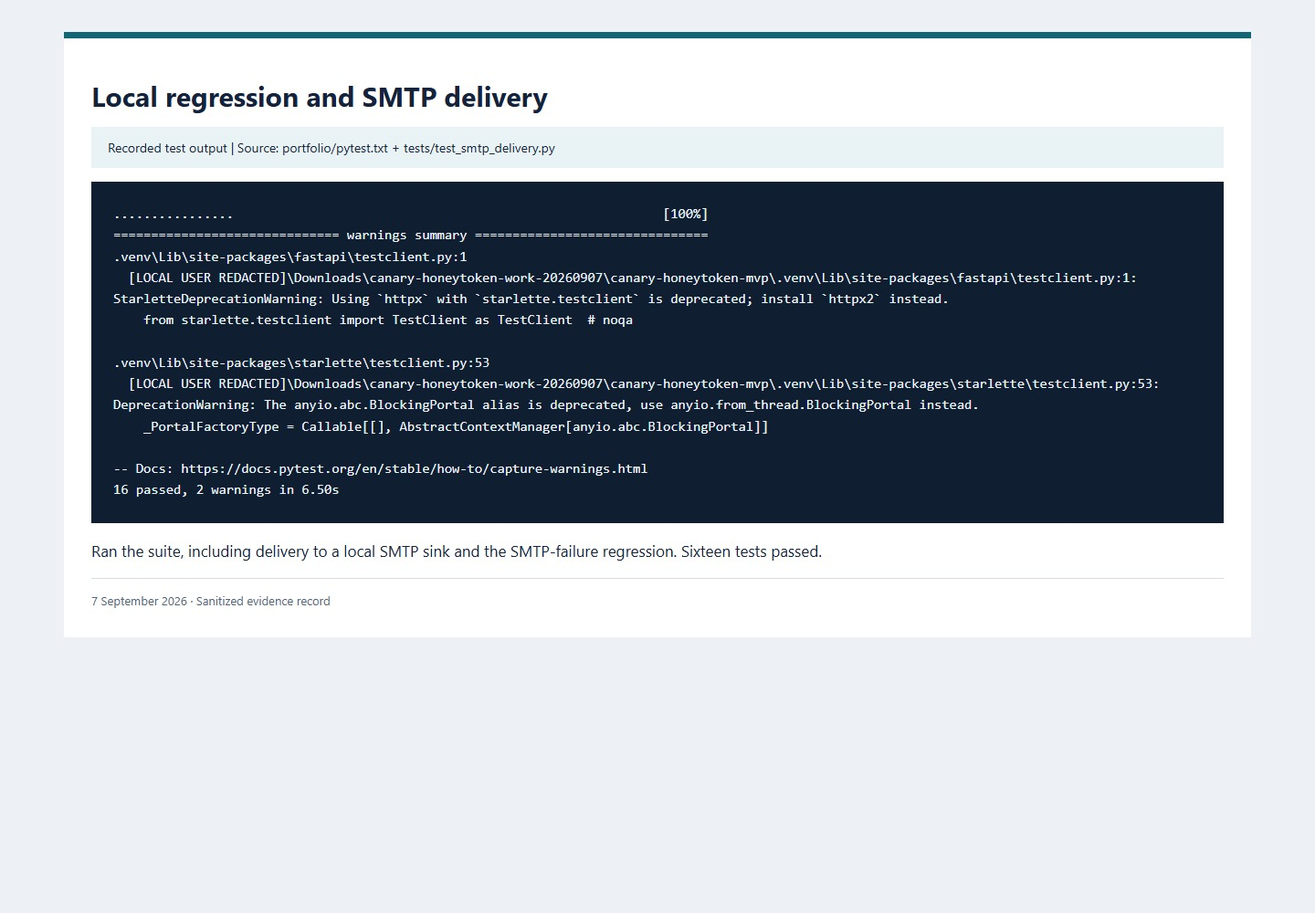
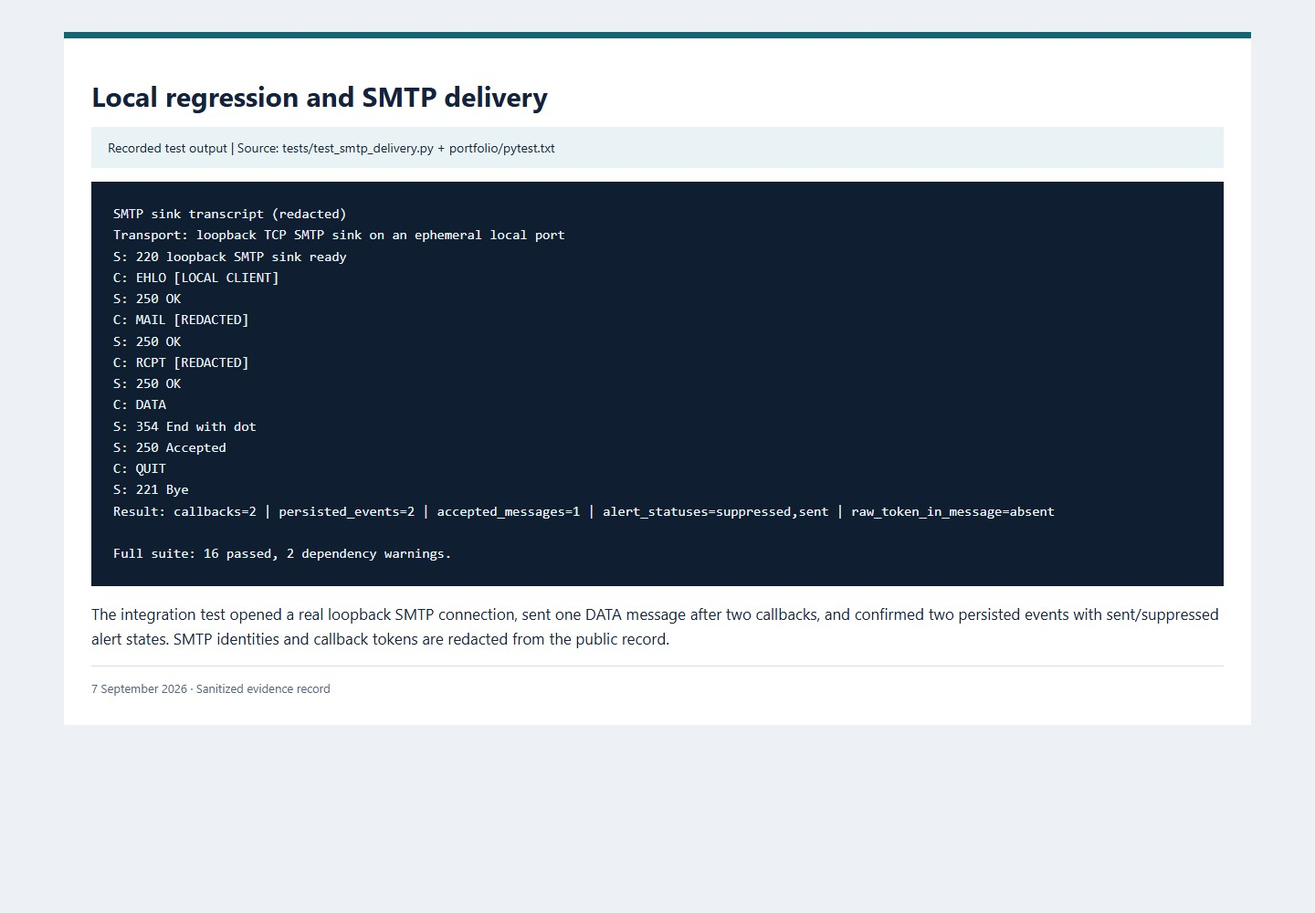
Expose redacted SMTP delivery transcript

diff --git a/docs/evidence/public/index.html b/docs/evidence/public/index.html
@@ -1,1 +1,1 @@
-<!doctype html><html lang="en"><meta charset="utf-8"><meta name="viewport" content="width=device-width,initial-scale=1"><title>Honey Token — screenshot walkthrough</title><style>body{margin:0;background:#edf1f5;color:#14233b;font:17px/1.55 Segoe UI,Arial}main{max-width:1240px;margin:35px auto;padding:30px;background:white;border-top:7px solid #126675}h1{font-size:30px;margin:10px 0}.meta{padding:12px 18px;background:#e9f2f4;font-size:14px}pre{white-space:pre-wrap;overflow-wrap:anywhere;font:15px/1.55 Consolas,monospace;background:#101e32;color:#ebf3fa;padding:24px}footer{font-size:13px;color:#53677c;border-top:1px solid #d4dee6;padding-top:14px}a{color:#126675}img{max-width:100%;height:auto}article{margin:36px 0;padding-top:20px;border-top:1px solid #ccd5dc}</style><main><h1>Honey Token</h1><p>Project walkthrough recorded on 7 September 2026, covering setup, deployment, document retrieval, event triage, Sentinel ingestion, and tests. Word and GitHub images are application captures. Azure images display saved API and query records, rather than the Azure portal. No teardown was performed.</p><p>Account details, email addresses, source IPs, tenant/subscription identifiers, callback tokens, and resource endpoints are redacted or excluded. Raw records remain outside this package.</p><h2>Project walkthrough</h2><ol><li><a href="#step01">Purpose and architecture</a></li><li><a href="#step02">Starting state and baseline</a></li><li><a href="#step03">Infrastructure deployment</a></li><li><a href="#step04">Receiver security configuration</a></li><li><a href="#step05">Deployed receiver health</a></li><li><a href="#step06">Word renders the synthetic decoy</a></li><li><a href="#step07">Word callback and triage</a></li><li><a href="#step08">Persisted events and delivery outcomes</a></li><li><a href="#step09">Log Analytics ingestion</a></li><li><a href="#step10">Sentinel analytic rule</a></li><li><a href="#step11">Sentinel incident</a></li><li><a href="#step12">GitHub main CI status</a></li><li><a href="#step13">GitHub test job</a></li><li><a href="#step14">GitHub pytest log</a></li><li><a href="#step15">Local regression and SMTP delivery</a></li><li><a href="#step16">Secret scanning</a></li><li><a href="#step17">Limitations and teardown status</a></li></ol><article id="step01"><h2>01. Purpose and architecture</h2><div class="meta">Design summary | Source: ARCHITECTURE.md</div><p>Extended the local document-token receiver with Azure Table Storage and Sentinel ingestion. Word and cloud callbacks were exercised separately.</p><a href="01-evidence.jpg"><img loading="lazy" src="01-evidence.jpg" alt="Purpose and architecture"></a></article><article id="step02"><h2>02. Starting state and baseline</h2><div class="meta">Archived record, captured 2026-09-07 | Source: 00-azure-start-state.json + docs/BASELINE.md</div><p>Recorded the local SQLite starting point and nine passing baseline tests before adding the Azure adapters.</p><a href="02-evidence.jpg"><img loading="lazy" src="02-evidence.jpg" alt="Starting state and baseline"></a></article><article id="step03"><h2>03. Infrastructure deployment</h2><div class="meta">Archived Azure deployment response | Source: 03-bicep-final-deployment.json</div><p>Deployed the Bicep resources successfully. Resource identifiers and endpoint values are omitted from the saved response.</p><a href="03-evidence.jpg"><img loading="lazy" src="03-evidence.jpg" alt="Infrastructure deployment"></a></article><article id="step04"><h2>04. Receiver security configuration</h2><div class="meta">Source configuration evidence | Source: infra/main.bicep</div><p>Disabled registry admin access and storage shared keys, required HTTPS, and disabled public management routes in the deployment configuration.</p><a href="04-evidence.jpg"><img loading="lazy" src="04-evidence.jpg" alt="Receiver security configuration"></a></article><article id="step05"><h2>05. Deployed receiver health</h2><div class="meta">Archived HTTP result | Source: 09-container-app-health.json</div><p>Requested the deployed health endpoint; it returned HTTP 200 with receiver-only mode and Azure Table Storage.</p><a href="05-evidence.jpg"><img loading="lazy" src="05-evidence.jpg" alt="Deployed receiver health"></a></article><article id="step06"><h2>06. Word renders the synthetic decoy</h2><div class="meta">Microsoft Word UI capture | Source: Word 16.0.20326.20132</div><p>Opened the generated synthetic document in Word. The local callback it produced is recorded in image 07.</p><a href="06-word-decoy.png"><img loading="lazy" src="06-word-decoy.png" alt="Word renders the synthetic decoy"></a></article><article id="step07"><h2>07. Word callback and triage</h2><div class="meta">Archived event from observed Word open | Source: word-viewer-result.json</div><p>Captured the Office User-Agent and high-severity event when Word requested the loopback pixel.</p><a href="07-evidence.jpg"><img loading="lazy" src="07-evidence.jpg" alt="Word callback and triage"></a></article><article id="step08"><h2>08. Persisted events and delivery outcomes</h2><div class="meta">Archived Azure Table query | Source: table-events-sanitized.json</div><p>Queried stored events and retained both successful delivery outcomes and the first failed ingestion attempt.</p><a href="08-evidence.jpg"><img loading="lazy" src="08-evidence.jpg" alt="Persisted events and delivery outcomes"></a></article><article id="step09"><h2>09. Log Analytics ingestion</h2><div class="meta">Archived CanaryHit_CL query | Source: log-analytics-latest.json</div><p>Queried four ingested records, including a scanner classification and a suppressed repeat notification.</p><a href="09-evidence.jpg"><img loading="lazy" src="09-evidence.jpg" alt="Log Analytics ingestion"></a></article><article id="step10"><h2>10. Sentinel analytic rule</h2><div class="meta">Archived rule configuration | Source: sentinel-rule.json</div><p>Deployed a five-minute Sentinel rule with a ten-minute lookback and incident creation enabled. The query selected all callback rows; scanner and repeat rows were included.</p><a href="10-evidence.jpg"><img loading="lazy" src="10-evidence.jpg" alt="Sentinel analytic rule"></a></article><article id="step11"><h2>11. Sentinel incident</h2><div class="meta">Archived Sentinel incident response | Source: sentinel-incidents.json</div><p>Recorded the resulting high-severity Sentinel incident. Account and resource identifiers are omitted.</p><a href="11-evidence.jpg"><img loading="lazy" src="11-evidence.jpg" alt="Sentinel incident"></a></article><article id="step12"><h2>12. GitHub main CI status</h2><div class="meta">GitHub UI capture | Source: Actions run 34152044446, commit 2858824</div><p>Captured the completed main-branch CI run after the application fixes.</p><a href="12-github-ci-status.jpg"><img loading="lazy" src="12-github-ci-status.jpg" alt="GitHub main CI status"></a></article><article id="step13"><h2>13. GitHub test job</h2><div class="meta">GitHub UI capture | Source: Actions run 34152044446</div><p>Captured the successful test job in the same GitHub Actions run.</p><a href="13-github-test-job.jpg"><img loading="lazy" src="13-github-test-job.jpg" alt="GitHub test job"></a></article><article id="step14"><h2>14. GitHub pytest log</h2><div class="meta">GitHub UI capture | Source: Job 101836165394 in Actions run 34152044446</div><p>Captured the pytest output from the completed GitHub test job.</p><a href="14-github-pytest-output.jpg"><img loading="lazy" src="14-github-pytest-output.jpg" alt="GitHub pytest log"></a></article><article id="step15"><h2>15. Local regression and SMTP delivery</h2><div class="meta">Recorded test output | Source: portfolio/pytest.txt + tests/test_smtp_delivery.py</div><p>Ran the suite, including delivery to a local SMTP sink and the SMTP-failure regression. Sixteen tests passed.</p><a href="15-evidence.jpg"><img loading="lazy" src="15-evidence.jpg" alt="Local regression and SMTP delivery"></a></article><article id="step16"><h2>16. Secret scanning</h2><div class="meta">Gitleaks output | Source: portfolio/gitleaks.txt</div><p>Scanned the tracked history with Gitleaks; the recorded scan found no secrets.</p><a href="16-evidence.jpg"><img loading="lazy" src="16-evidence.jpg" alt="Secret scanning"></a></article><article id="step17"><h2>17. Limitations and teardown status</h2><div class="meta">Operational notes | Source: LIMITATIONS.md + COST_AND_TEARDOWN.md</div><p>Recorded the resource state at the end of the run. The cleanup command and operational constraints are documented separately.</p><a href="17-evidence.jpg"><img loading="lazy" src="17-evidence.jpg" alt="Limitations and teardown status"></a></article></main></html>
+<!doctype html><html lang="en"><meta charset="utf-8"><meta name="viewport" content="width=device-width,initial-scale=1"><title>Honey Token — screenshot walkthrough</title><style>body{margin:0;background:#edf1f5;color:#14233b;font:17px/1.55 Segoe UI,Arial}main{max-width:1240px;margin:35px auto;padding:30px;background:white;border-top:7px solid #126675}h1{font-size:30px;margin:10px 0}.meta{padding:12px 18px;background:#e9f2f4;font-size:14px}pre{white-space:pre-wrap;overflow-wrap:anywhere;font:15px/1.55 Consolas,monospace;background:#101e32;color:#ebf3fa;padding:24px}footer{font-size:13px;color:#53677c;border-top:1px solid #d4dee6;padding-top:14px}a{color:#126675}img{max-width:100%;height:auto}article{margin:36px 0;padding-top:20px;border-top:1px solid #ccd5dc}</style><main><h1>Honey Token</h1><p>Project walkthrough recorded on 7 September 2026, covering setup, deployment, document retrieval, event triage, Sentinel ingestion, and tests. Word and GitHub images are application captures. Azure images display saved API and query records, rather than the Azure portal. No teardown was performed.</p><p>Account details, email addresses, source IPs, tenant/subscription identifiers, callback tokens, and resource endpoints are redacted or excluded. Raw records remain outside this package.</p><h2>Project walkthrough</h2><ol><li><a href="#step01">Purpose and architecture</a></li><li><a href="#step02">Starting state and baseline</a></li><li><a href="#step03">Infrastructure deployment</a></li><li><a href="#step04">Receiver security configuration</a></li><li><a href="#step05">Deployed receiver health</a></li><li><a href="#step06">Word renders the synthetic decoy</a></li><li><a href="#step07">Word callback and triage</a></li><li><a href="#step08">Persisted events and delivery outcomes</a></li><li><a href="#step09">Log Analytics ingestion</a></li><li><a href="#step10">Sentinel analytic rule</a></li><li><a href="#step11">Sentinel incident</a></li><li><a href="#step12">GitHub main CI status</a></li><li><a href="#step13">GitHub test job</a></li><li><a href="#step14">GitHub pytest log</a></li><li><a href="#step15">Local regression and SMTP delivery</a></li><li><a href="#step16">Secret scanning</a></li><li><a href="#step17">Limitations and teardown status</a></li></ol><article id="step01"><h2>01. Purpose and architecture</h2><div class="meta">Design summary | Source: ARCHITECTURE.md</div><p>Extended the local document-token receiver with Azure Table Storage and Sentinel ingestion. Word and cloud callbacks were exercised separately.</p><a href="01-evidence.jpg"><img loading="lazy" src="01-evidence.jpg" alt="Purpose and architecture"></a></article><article id="step02"><h2>02. Starting state and baseline</h2><div class="meta">Archived record, captured 2026-09-07 | Source: 00-azure-start-state.json + docs/BASELINE.md</div><p>Recorded the local SQLite starting point and nine passing baseline tests before adding the Azure adapters.</p><a href="02-evidence.jpg"><img loading="lazy" src="02-evidence.jpg" alt="Starting state and baseline"></a></article><article id="step03"><h2>03. Infrastructure deployment</h2><div class="meta">Archived Azure deployment response | Source: 03-bicep-final-deployment.json</div><p>Deployed the Bicep resources successfully. Resource identifiers and endpoint values are omitted from the saved response.</p><a href="03-evidence.jpg"><img loading="lazy" src="03-evidence.jpg" alt="Infrastructure deployment"></a></article><article id="step04"><h2>04. Receiver security configuration</h2><div class="meta">Source configuration evidence | Source: infra/main.bicep</div><p>Disabled registry admin access and storage shared keys, required HTTPS, and disabled public management routes in the deployment configuration.</p><a href="04-evidence.jpg"><img loading="lazy" src="04-evidence.jpg" alt="Receiver security configuration"></a></article><article id="step05"><h2>05. Deployed receiver health</h2><div class="meta">Archived HTTP result | Source: 09-container-app-health.json</div><p>Requested the deployed health endpoint; it returned HTTP 200 with receiver-only mode and Azure Table Storage.</p><a href="05-evidence.jpg"><img loading="lazy" src="05-evidence.jpg" alt="Deployed receiver health"></a></article><article id="step06"><h2>06. Word renders the synthetic decoy</h2><div class="meta">Microsoft Word UI capture | Source: Word 16.0.20326.20132</div><p>Opened the generated synthetic document in Word. The local callback it produced is recorded in image 07.</p><a href="06-word-decoy.png"><img loading="lazy" src="06-word-decoy.png" alt="Word renders the synthetic decoy"></a></article><article id="step07"><h2>07. Word callback and triage</h2><div class="meta">Archived event from observed Word open | Source: word-viewer-result.json</div><p>Captured the Office User-Agent and high-severity event when Word requested the loopback pixel.</p><a href="07-evidence.jpg"><img loading="lazy" src="07-evidence.jpg" alt="Word callback and triage"></a></article><article id="step08"><h2>08. Persisted events and delivery outcomes</h2><div class="meta">Archived Azure Table query | Source: table-events-sanitized.json</div><p>Queried stored events and retained both successful delivery outcomes and the first failed ingestion attempt.</p><a href="08-evidence.jpg"><img loading="lazy" src="08-evidence.jpg" alt="Persisted events and delivery outcomes"></a></article><article id="step09"><h2>09. Log Analytics ingestion</h2><div class="meta">Archived CanaryHit_CL query | Source: log-analytics-latest.json</div><p>Queried four ingested records, including a scanner classification and a suppressed repeat notification.</p><a href="09-evidence.jpg"><img loading="lazy" src="09-evidence.jpg" alt="Log Analytics ingestion"></a></article><article id="step10"><h2>10. Sentinel analytic rule</h2><div class="meta">Archived rule configuration | Source: sentinel-rule.json</div><p>Deployed a five-minute Sentinel rule with a ten-minute lookback and incident creation enabled. The query selected all callback rows; scanner and repeat rows were included.</p><a href="10-evidence.jpg"><img loading="lazy" src="10-evidence.jpg" alt="Sentinel analytic rule"></a></article><article id="step11"><h2>11. Sentinel incident</h2><div class="meta">Archived Sentinel incident response | Source: sentinel-incidents.json</div><p>Recorded the resulting high-severity Sentinel incident. Account and resource identifiers are omitted.</p><a href="11-evidence.jpg"><img loading="lazy" src="11-evidence.jpg" alt="Sentinel incident"></a></article><article id="step12"><h2>12. GitHub main CI status</h2><div class="meta">GitHub UI capture | Source: Actions run 34152044446, commit 2858824</div><p>Captured the completed main-branch CI run after the application fixes.</p><a href="12-github-ci-status.jpg"><img loading="lazy" src="12-github-ci-status.jpg" alt="GitHub main CI status"></a></article><article id="step13"><h2>13. GitHub test job</h2><div class="meta">GitHub UI capture | Source: Actions run 34152044446</div><p>Captured the successful test job in the same GitHub Actions run.</p><a href="13-github-test-job.jpg"><img loading="lazy" src="13-github-test-job.jpg" alt="GitHub test job"></a></article><article id="step14"><h2>14. GitHub pytest log</h2><div class="meta">GitHub UI capture | Source: Job 101836165394 in Actions run 34152044446</div><p>Captured the pytest output from the completed GitHub test job.</p><a href="14-github-pytest-output.jpg"><img loading="lazy" src="14-github-pytest-output.jpg" alt="GitHub pytest log"></a></article><article id="step15"><h2>15. Local regression and SMTP delivery</h2><div class="meta">Recorded test output | Source: tests/test_smtp_delivery.py + portfolio/pytest.txt</div><p>The integration test opened a real loopback SMTP connection, sent one DATA message after two callbacks, and confirmed two persisted events with sent/suppressed alert states. SMTP identities and callback tokens are redacted from the public record.</p><a href="15-evidence.jpg"><img loading="lazy" src="15-evidence.jpg" alt="Local regression and SMTP delivery"></a></article><article id="step16"><h2>16. Secret scanning</h2><div class="meta">Gitleaks output | Source: portfolio/gitleaks.txt</div><p>Scanned the tracked history with Gitleaks; the recorded scan found no secrets.</p><a href="16-evidence.jpg"><img loading="lazy" src="16-evidence.jpg" alt="Secret scanning"></a></article><article id="step17"><h2>17. Limitations and teardown status</h2><div class="meta">Operational notes | Source: LIMITATIONS.md + COST_AND_TEARDOWN.md</div><p>Recorded the resource state at the end of the run. The cleanup command and operational constraints are documented separately.</p><a href="17-evidence.jpg"><img loading="lazy" src="17-evidence.jpg" alt="Limitations and teardown status"></a></article></main></html>

diff --git a/docs/evidence/public/15-evidence.html b/docs/evidence/public/15-evidence.html
@@ -1,13 +1,17 @@
-<!doctype html><html lang="en"><meta charset="utf-8"><title>Local regression and SMTP delivery</title><style>body{margin:0;background:#edf1f5;color:#14233b;font:17px/1.55 Segoe UI,Arial}main{max-width:1240px;margin:35px auto;padding:30px;background:white;border-top:7px solid #126675}h1{font-size:30px;margin:10px 0}.meta{padding:12px 18px;background:#e9f2f4;font-size:14px}pre{white-space:pre-wrap;overflow-wrap:anywhere;font:15px/1.55 Consolas,monospace;background:#101e32;color:#ebf3fa;padding:24px}footer{font-size:13px;color:#53677c;border-top:1px solid #d4dee6;padding-top:14px}a{color:#126675}img{max-width:100%;height:auto}article{margin:36px 0;padding-top:20px;border-top:1px solid #ccd5dc}</style><main><h1>Local regression and SMTP delivery</h1><div class="meta">Recorded test output | Source: portfolio/pytest.txt + tests/test_smtp_delivery.py</div><pre>................                                                         [100%]
-============================== warnings summary ===============================
-.venv\Lib\site-packages\fastapi\testclient.py:1
-  [LOCAL USER REDACTED]\Downloads\canary-honeytoken-work-20260907\canary-honeytoken-mvp\.venv\Lib\site-packages\fastapi\testclient.py:1: StarletteDeprecationWarning: Using `httpx` with `starlette.testclient` is deprecated; install `httpx2` instead.
-    from starlette.testclient import TestClient as TestClient  # noqa
+<!doctype html><html lang="en"><meta charset="utf-8"><title>Local regression and SMTP delivery</title><style>body{margin:0;background:#edf1f5;color:#14233b;font:17px/1.55 Segoe UI,Arial}main{max-width:1240px;margin:35px auto;padding:30px;background:white;border-top:7px solid #126675}h1{font-size:30px;margin:10px 0}.meta{padding:12px 18px;background:#e9f2f4;font-size:14px}pre{white-space:pre-wrap;overflow-wrap:anywhere;font:15px/1.55 Consolas,monospace;background:#101e32;color:#ebf3fa;padding:24px}footer{font-size:13px;color:#53677c;border-top:1px solid #d4dee6;padding-top:14px}a{color:#126675}img{max-width:100%;height:auto}article{margin:36px 0;padding-top:20px;border-top:1px solid #ccd5dc}</style><main><h1>Local regression and SMTP delivery</h1><div class="meta">Recorded test output | Source: tests/test_smtp_delivery.py + portfolio/pytest.txt</div><pre>SMTP sink transcript (redacted)
+Transport: loopback TCP SMTP sink on an ephemeral local port
+S: 220 loopback SMTP sink ready
+C: EHLO [LOCAL CLIENT]
+S: 250 OK
+C: MAIL [REDACTED]
+S: 250 OK
+C: RCPT [REDACTED]
+S: 250 OK
+C: DATA
+S: 354 End with dot
+S: 250 Accepted
+C: QUIT
+S: 221 Bye
+Result: callbacks=2 | persisted_events=2 | accepted_messages=1 | alert_statuses=suppressed,sent | raw_token_in_message=absent
 
-.venv\Lib\site-packages\starlette\testclient.py:53
-  [LOCAL USER REDACTED]\Downloads\canary-honeytoken-work-20260907\canary-honeytoken-mvp\.venv\Lib\site-packages\starlette\testclient.py:53: DeprecationWarning: The anyio.abc.BlockingPortal alias is deprecated, use anyio.from_thread.BlockingPortal instead.
-    _PortalFactoryType = Callable[[], AbstractContextManager[anyio.abc.BlockingPortal]]
-
--- Docs: https://docs.pytest.org/en/stable/how-to/capture-warnings.html
-16 passed, 2 warnings in 6.50s
-</pre><p>Ran the suite, including delivery to a local SMTP sink and the SMTP-failure regression. Sixteen tests passed.</p><footer>7 September 2026 · Sanitized evidence record</footer></main></html>
+Full suite: 16 passed, 2 dependency warnings.</pre><p>The integration test opened a real loopback SMTP connection, sent one DATA message after two callbacks, and confirmed two persisted events with sent/suppressed alert states. SMTP identities and callback tokens are redacted from the public record.</p><footer>7 September 2026 · Sanitized evidence record</footer></main></html>

diff --git a/tests/test_smtp_delivery.py b/tests/test_smtp_delivery.py
@@ -11,25 +11,40 @@ from app.main import create_app
 
 def test_callback_delivers_triaged_message_to_loopback_sink(tmp_path):
     messages = []
+    smtp_trace = []
 
     class SMTPHandler(socketserver.StreamRequestHandler):
         def handle(self):
             self.connection.settimeout(5)
             self.wfile.write(b"220 local.test ESMTP\r\n")
+            smtp_trace.append("S: 220 loopback SMTP sink ready")
             while line := self.rfile.readline():
+                raw_line = line.rstrip(b"\r\n").decode("ascii", errors="replace")
                 command = line.split(b" ", 1)[0].strip().upper()
+                if command in {b"MAIL", b"RCPT"}:
+                    smtp_trace.append(f"C: {command.decode()} [REDACTED]")
+                elif command in {b"EHLO", b"HELO"}:
+                    smtp_trace.append(f"C: {command.decode()} [LOCAL CLIENT]")
+                elif command == b"DATA":
+                    smtp_trace.append("C: DATA")
+                else:
+                    smtp_trace.append(f"C: {raw_line}")
                 if command == b"DATA":
                     self.wfile.write(b"354 End with dot\r\n")
+                    smtp_trace.append("S: 354 End with dot")
                     lines = []
                     while (line := self.rfile.readline()) not in (b".\r\n", b""):
                         lines.append(line)
                     messages.append(b"".join(lines))
                     self.wfile.write(b"250 Accepted\r\n")
+                    smtp_trace.append("S: 250 Accepted")
                 elif command == b"QUIT":
                     self.wfile.write(b"221 Bye\r\n")
+                    smtp_trace.append("S: 221 Bye")
                     return
                 else:
                     self.wfile.write(b"250 OK\r\n")
+                    smtp_trace.append("S: 250 OK")
 
     with socketserver.TCPServer(("127.0.0.1", 0), SMTPHandler) as server:
         thread = threading.Thread(target=server.serve_forever, daemon=True)
@@ -56,6 +71,12 @@ def test_callback_delivers_triaged_message_to_loopback_sink(tmp_path):
             assert "Synthetic.docx" in body
             assert token["canary_id"] in body
             assert token["id"] not in body
+            print("\nSMTP sink transcript (redacted)")
+            print("\n".join(smtp_trace))
+            print(
+                "Result: callbacks=2 | persisted_events=2 | accepted_messages=1 "
+                "| alert_statuses=suppressed,sent | raw_token_in_message=absent"
+            )
         finally:
             server.shutdown()
             thread.join(timeout=5)

diff --git a/docs/evidence/public/README.md b/docs/evidence/public/README.md
@@ -1,8 +1,8 @@
 # Honey Token — screenshot walkthrough
 
-Recorded evidence from the 7 September 2026 run: baseline, deployment, document retrieval, event triage, Sentinel ingestion, and tests. Word and GitHub images are application captures. Azure images show saved API and query records rather than Azure portal screenshots. Teardown was not run.
+Project walkthrough recorded on 7 September 2026, covering setup, deployment, document retrieval, event triage, Sentinel ingestion, and tests. Word and GitHub images are application captures. Azure images display saved API and query records, rather than the Azure portal. No teardown was performed.
 
-Account details, email addresses, source IPs, tenant and subscription identifiers, callback tokens, and resource endpoints are redacted or omitted. Raw records remain outside this package.
+Account details, email addresses, source IPs, tenant/subscription identifiers, callback tokens, and resource endpoints are redacted or excluded. Raw records remain outside this package.
 
 [Open the offline gallery](index.html). Image hashes are recorded in [captions.json](captions.json).
 
@@ -14,7 +14,7 @@ Account details, email addresses, source IPs, tenant and subscription identifier
 
 **Design summary** — Source: `ARCHITECTURE.md`.
 
-The diagram separates the local Word callback from the controlled Azure-to-Sentinel path.
+Extended the local document-token receiver with Azure Table Storage and Sentinel ingestion. Word and cloud callbacks were exercised separately.
 
 ![Purpose and architecture](01-evidence.jpg)
 
@@ -22,7 +22,7 @@ The diagram separates the local Word callback from the controlled Azure-to-Senti
 
 **Archived record, captured 2026-09-07** — Source: `00-azure-start-state.json + docs/BASELINE.md`.
 
-The local SQLite service started with nine passing tests before the Azure adapters were added.
+Recorded the local SQLite starting point and nine passing baseline tests before adding the Azure adapters.
 
 ![Starting state and baseline](02-evidence.jpg)
 
@@ -30,7 +30,7 @@ The local SQLite service started with nine passing tests before the Azure adapte
 
 **Archived Azure deployment response** — Source: `03-bicep-final-deployment.json`.
 
-Bicep deployed the receiver infrastructure. Resource identifiers and endpoint values are omitted.
+Deployed the Bicep resources successfully. Resource identifiers and endpoint values are omitted from the saved response.
 
 ![Infrastructure deployment](03-evidence.jpg)
 
@@ -38,7 +38,7 @@ Bicep deployed the receiver infrastructure. Resource identifiers and endpoint va
 
 **Source configuration evidence** — Source: `infra/main.bicep`.
 
-The deployment disabled registry admin access and storage shared keys, required HTTPS, and disabled public management routes.
+Disabled registry admin access and storage shared keys, required HTTPS, and disabled public management routes in the deployment configuration.
 
 ![Receiver security configuration](04-evidence.jpg)
 
@@ -46,7 +46,7 @@ The deployment disabled registry admin access and storage shared keys, required 
 
 **Archived HTTP result** — Source: `09-container-app-health.json`.
 
-The deployed health endpoint returned HTTP 200 with receiver-only mode and Azure Table Storage.
+Requested the deployed health endpoint; it returned HTTP 200 with receiver-only mode and Azure Table Storage.
 
 ![Deployed receiver health](05-evidence.jpg)
 
@@ -54,7 +54,7 @@ The deployed health endpoint returned HTTP 200 with receiver-only mode and Azure
 
 **Microsoft Word UI capture** — Source: `Word 16.0.20326.20132`.
 
-Word opened the generated synthetic document. Its local callback appears in image 07.
+Opened the generated synthetic document in Word. The local callback it produced is recorded in image 07.
 
 ![Word renders the synthetic decoy](06-word-decoy.png)
 
@@ -62,7 +62,7 @@ Word opened the generated synthetic document. Its local callback appears in imag
 
 **Archived event from observed Word open** — Source: `word-viewer-result.json`.
 
-The event recorded the Office User-Agent, source metadata, high severity, and a sent console alert when Word requested the loopback pixel.
+Captured the Office User-Agent and high-severity event when Word requested the loopback pixel.
 
 ![Word callback and triage](07-evidence.jpg)
 
@@ -70,15 +70,15 @@ The event recorded the Office User-Agent, source metadata, high severity, and a 
 
 **Archived Azure Table query** — Source: `table-events-sanitized.json`.
 
-The query retained successful delivery outcomes and the first failed ingestion attempt.
+Queried stored events and retained both successful delivery outcomes and the first failed ingestion attempt.
 
 ![Persisted events and delivery outcomes](08-evidence.jpg)
 
 ## 09. Log Analytics ingestion
 
-**Archived `CanaryHit_CL` query** — Source: `log-analytics-latest.json`.
+**Archived CanaryHit_CL query** — Source: `log-analytics-latest.json`.
 
-Four records reached Log Analytics, including a scanner classification and a suppressed repeat notification.
+Queried four ingested records, including a scanner classification and a suppressed repeat notification.
 
 ![Log Analytics ingestion](09-evidence.jpg)
 
@@ -86,7 +86,7 @@ Four records reached Log Analytics, including a scanner classification and a sup
 
 **Archived rule configuration** — Source: `sentinel-rule.json`.
 
-The rule ran every five minutes with a ten-minute lookback and incident creation enabled. It selected callback rows, including scanner and repeat rows.
+Deployed a five-minute Sentinel rule with a ten-minute lookback and incident creation enabled. The query selected all callback rows; scanner and repeat rows were included.
 
 ![Sentinel analytic rule](10-evidence.jpg)
 
@@ -94,7 +94,7 @@ The rule ran every five minutes with a ten-minute lookback and incident creation
 
 **Archived Sentinel incident response** — Source: `sentinel-incidents.json`.
 
-The rule created a high-severity incident. Account and resource identifiers are omitted.
+Recorded the resulting high-severity Sentinel incident. Account and resource identifiers are omitted.
 
 ![Sentinel incident](11-evidence.jpg)
 
@@ -102,7 +102,7 @@ The rule created a high-severity incident. Account and resource identifiers are 
 
 **GitHub UI capture** — Source: `Actions run 34152044446, commit 2858824`.
 
-The main-branch CI run completed after the application fixes.
+Captured the completed main-branch CI run after the application fixes.
 
 ![GitHub main CI status](12-github-ci-status.jpg)
 
@@ -110,7 +110,7 @@ The main-branch CI run completed after the application fixes.
 
 **GitHub UI capture** — Source: `Actions run 34152044446`.
 
-The test job completed successfully in the same run.
+Captured the successful test job in the same GitHub Actions run.
 
 ![GitHub test job](13-github-test-job.jpg)
 
@@ -118,15 +118,15 @@ The test job completed successfully in the same run.
 
 **GitHub UI capture** — Source: `Job 101836165394 in Actions run 34152044446`.
 
-The job log recorded the pytest run from the completed Actions job.
+Captured the pytest output from the completed GitHub test job.
 
 ![GitHub pytest log](14-github-pytest-output.jpg)
 
 ## 15. Local regression and SMTP delivery
 
-**Recorded test output** — Source: `portfolio/pytest.txt + tests/test_smtp_delivery.py`.
+**Recorded test output** — Source: `tests/test_smtp_delivery.py + portfolio/pytest.txt`.
 
-Sixteen tests passed, including local SMTP delivery and the SMTP-failure regression.
+The integration test opened a real loopback SMTP connection, sent one DATA message after two callbacks, and confirmed two persisted events with sent/suppressed alert states. SMTP identities and callback tokens are redacted from the public record.
 
 ![Local regression and SMTP delivery](15-evidence.jpg)
 
@@ -134,14 +134,14 @@ Sixteen tests passed, including local SMTP delivery and the SMTP-failure regress
 
 **Gitleaks output** — Source: `portfolio/gitleaks.txt`.
 
-The tracked history scan found no secrets.
+Scanned the tracked history with Gitleaks; the recorded scan found no secrets.
 
 ![Secret scanning](16-evidence.jpg)
 
-## 17. Limits and teardown status
+## 17. Limitations and teardown status
 
 **Operational notes** — Source: `LIMITATIONS.md + COST_AND_TEARDOWN.md`.
 
-The package records the remaining operational limits and the fact that resource cleanup was not run.
+Recorded the resource state at the end of the run. The cleanup command and operational constraints are documented separately.
 
 ![Limitations and teardown status](17-evidence.jpg)

diff --git a/TESTING.md b/TESTING.md
@@ -8,7 +8,7 @@ The local baseline passed nine tests. After the Azure adapters and failure-handl
 | DOCX generation | The package contained an external image relationship; malformed filenames were rejected |
 | Management authentication | Unauthenticated remote requests were rejected; non-ASCII credentials returned 401 |
 | Receiver-only routing | Management endpoints returned 404 |
-| SMTP sink | Two callbacks produced one email in the local sink; both events persisted |
+| SMTP sink | The loopback sink accepted one SMTP `DATA` message after two callbacks; two events persisted with `sent` and `suppressed` alert states ([test](tests/test_smtp_delivery.py), [transcript](docs/evidence/public/15-evidence.html)) |
 | SMTP failure | The event retained a failed status, the response remained a GIF, and Sentinel ingestion was attempted |
 | Missing Sentinel adapter | Ingestion status was recorded as disabled |
 | Event redaction | Public event output excluded raw callback identifiers |
